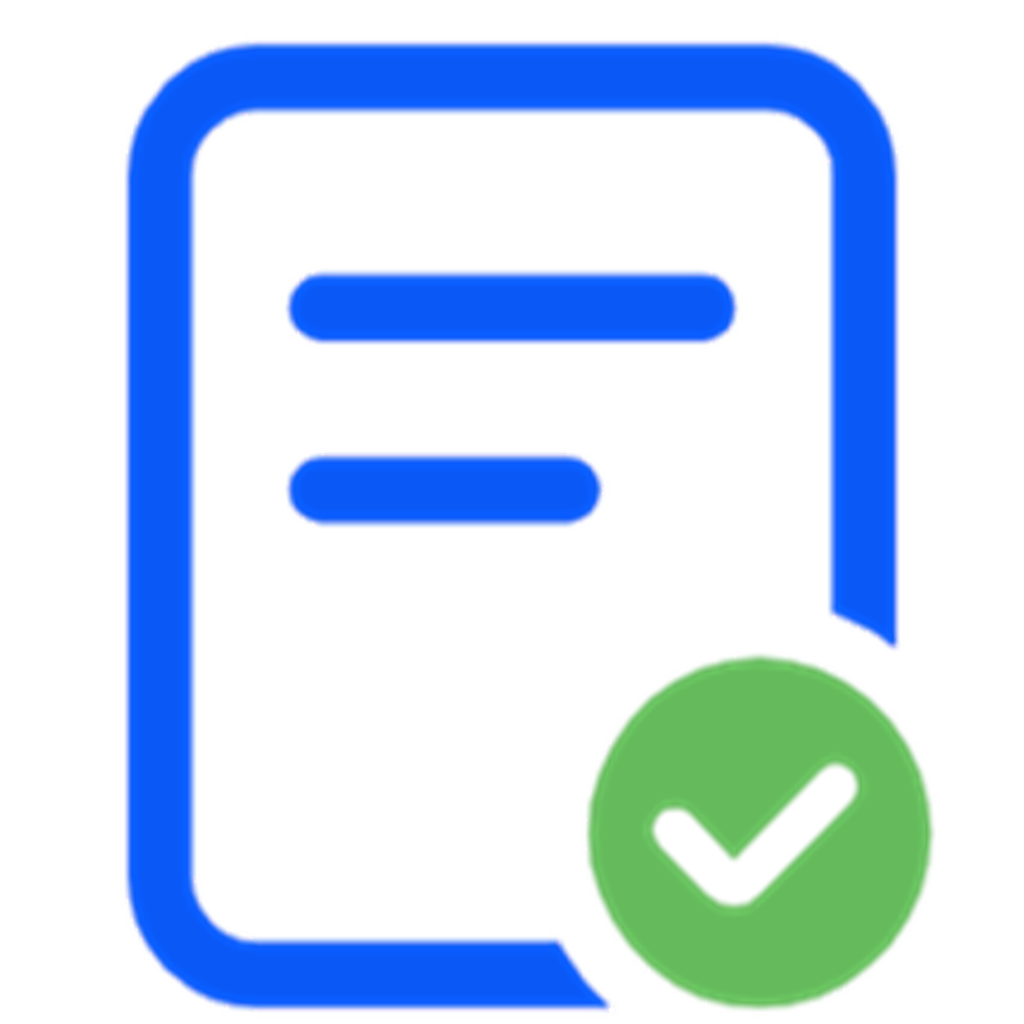
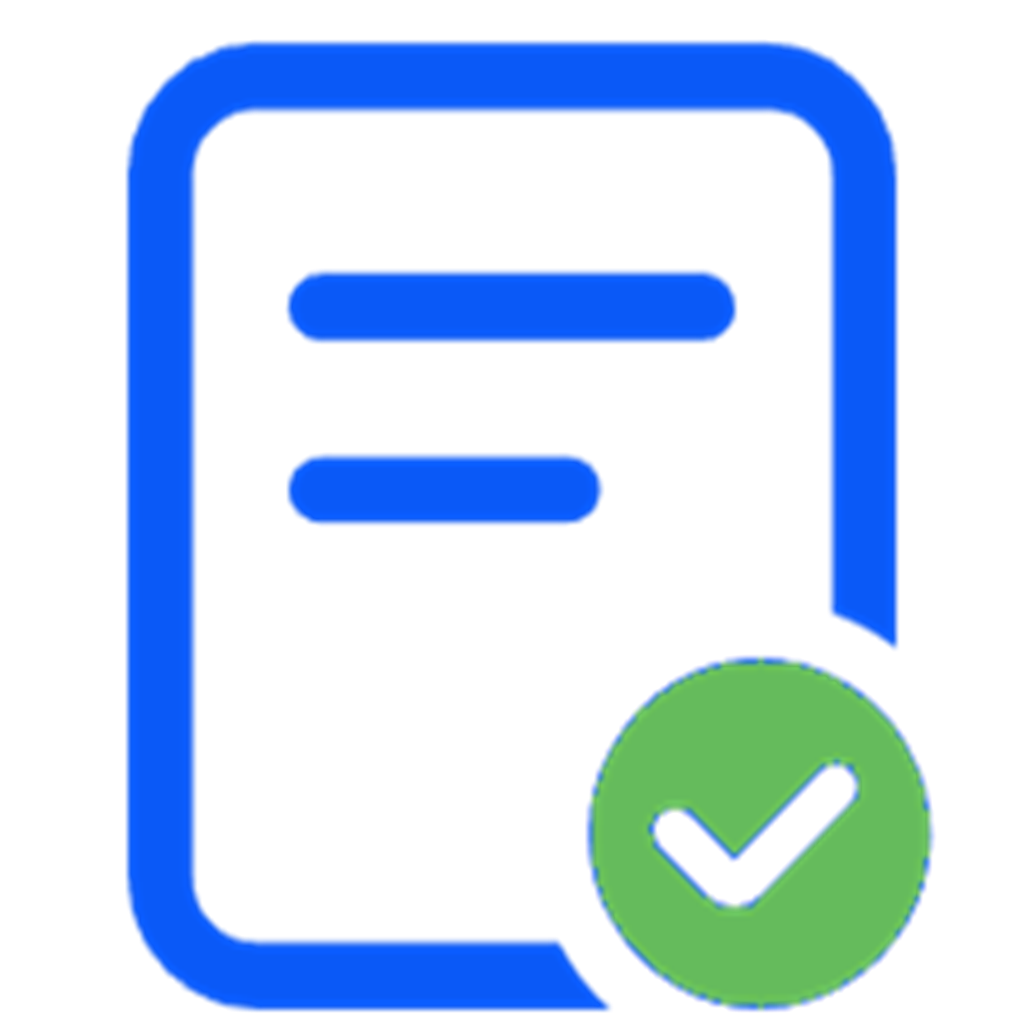
202605051544

diff --git a/cloudfunctions/http/todo/setBackup.js b/cloudfunctions/http/todo/setBackup.js
@@ -18,7 +18,7 @@ exports.main = async (event) => {
       errFix: '传递有效的accessToken或accessKey参数'
     }
   }
-  if (typeof (requestdata.id) != 'string' || requestdata.id) {
+  if (typeof (requestdata.id) != 'string' || !requestdata.id) {
     return {
       errCode: 1001,
       errMsg: '请求参数错误',